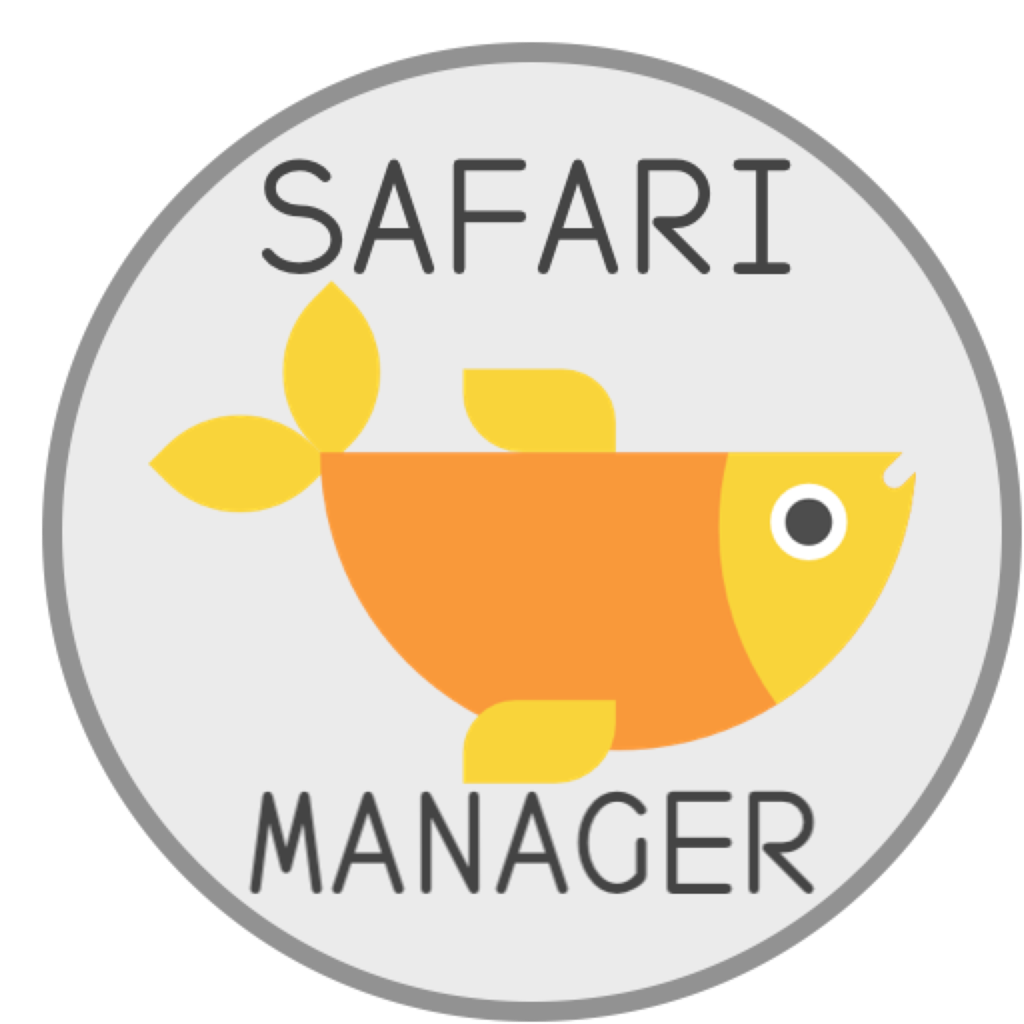
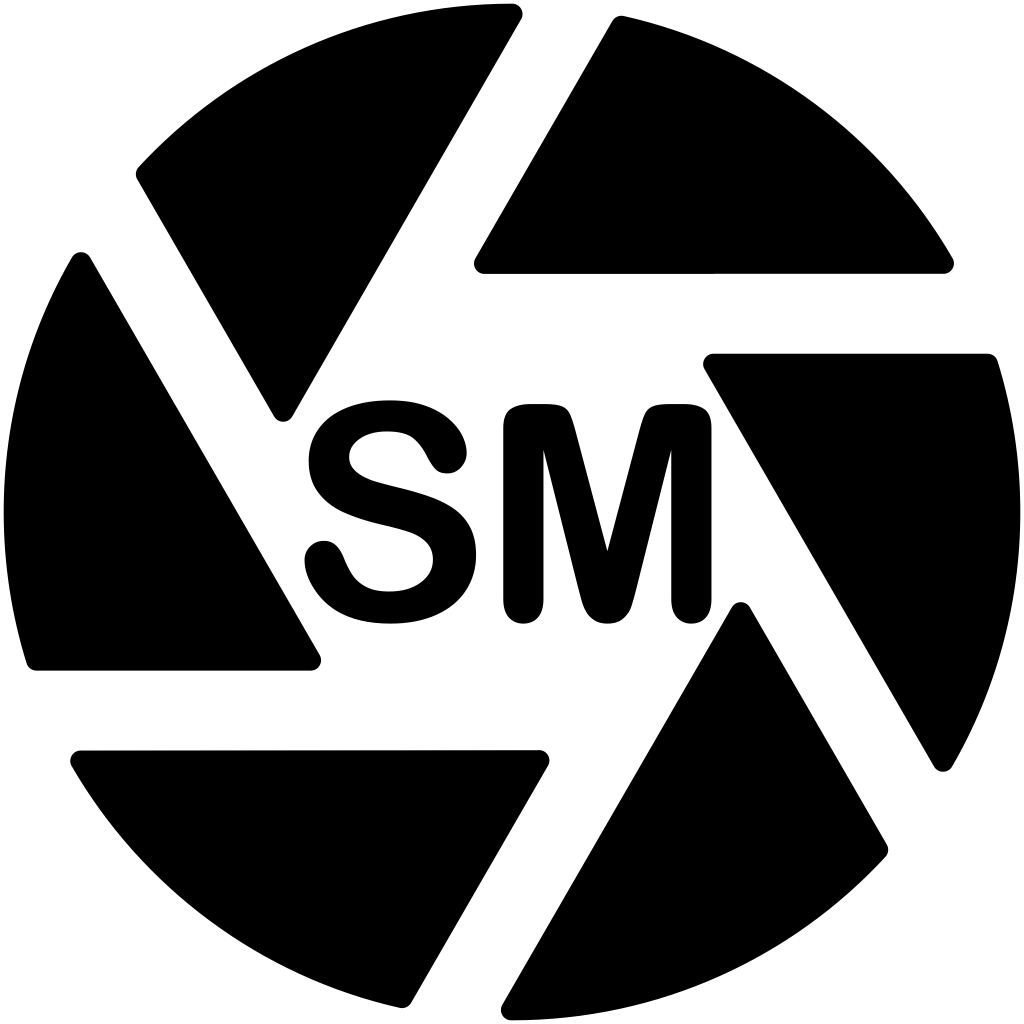
Experiment with MacOS taskbar template image

diff --git a/rel/app/Launcher.swift b/rel/app/Launcher.swift
@@ -11,6 +11,7 @@ class AppDelegate: NSObject, NSApplicationDelegate {
             image.draw(in: dstRect)
             return true
         }
+        resized.isTemplate = true
         statusItem = NSStatusBar.system.statusItem(withLength: NSStatusItem.variableLength)
         statusItem.button!.image = resized
 